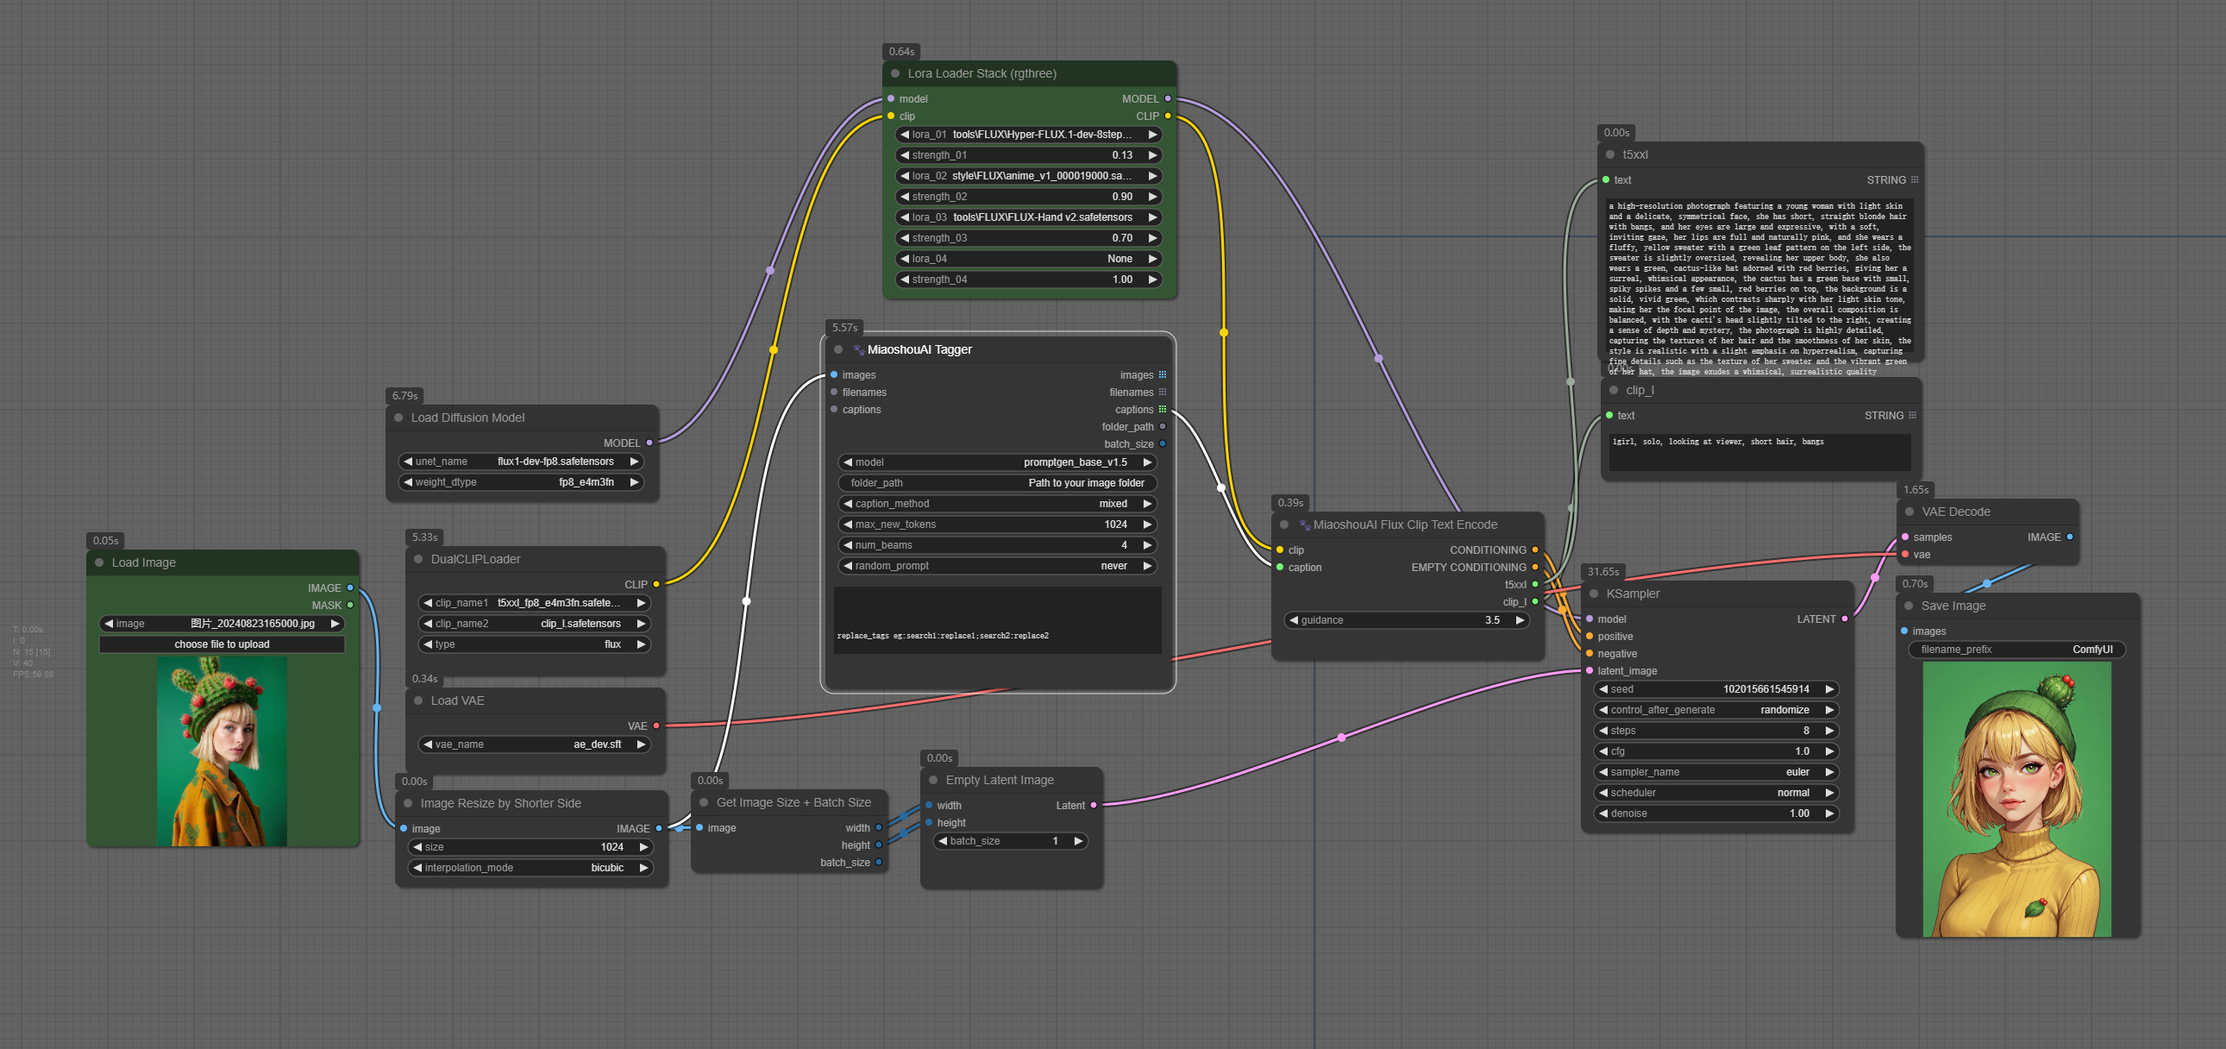
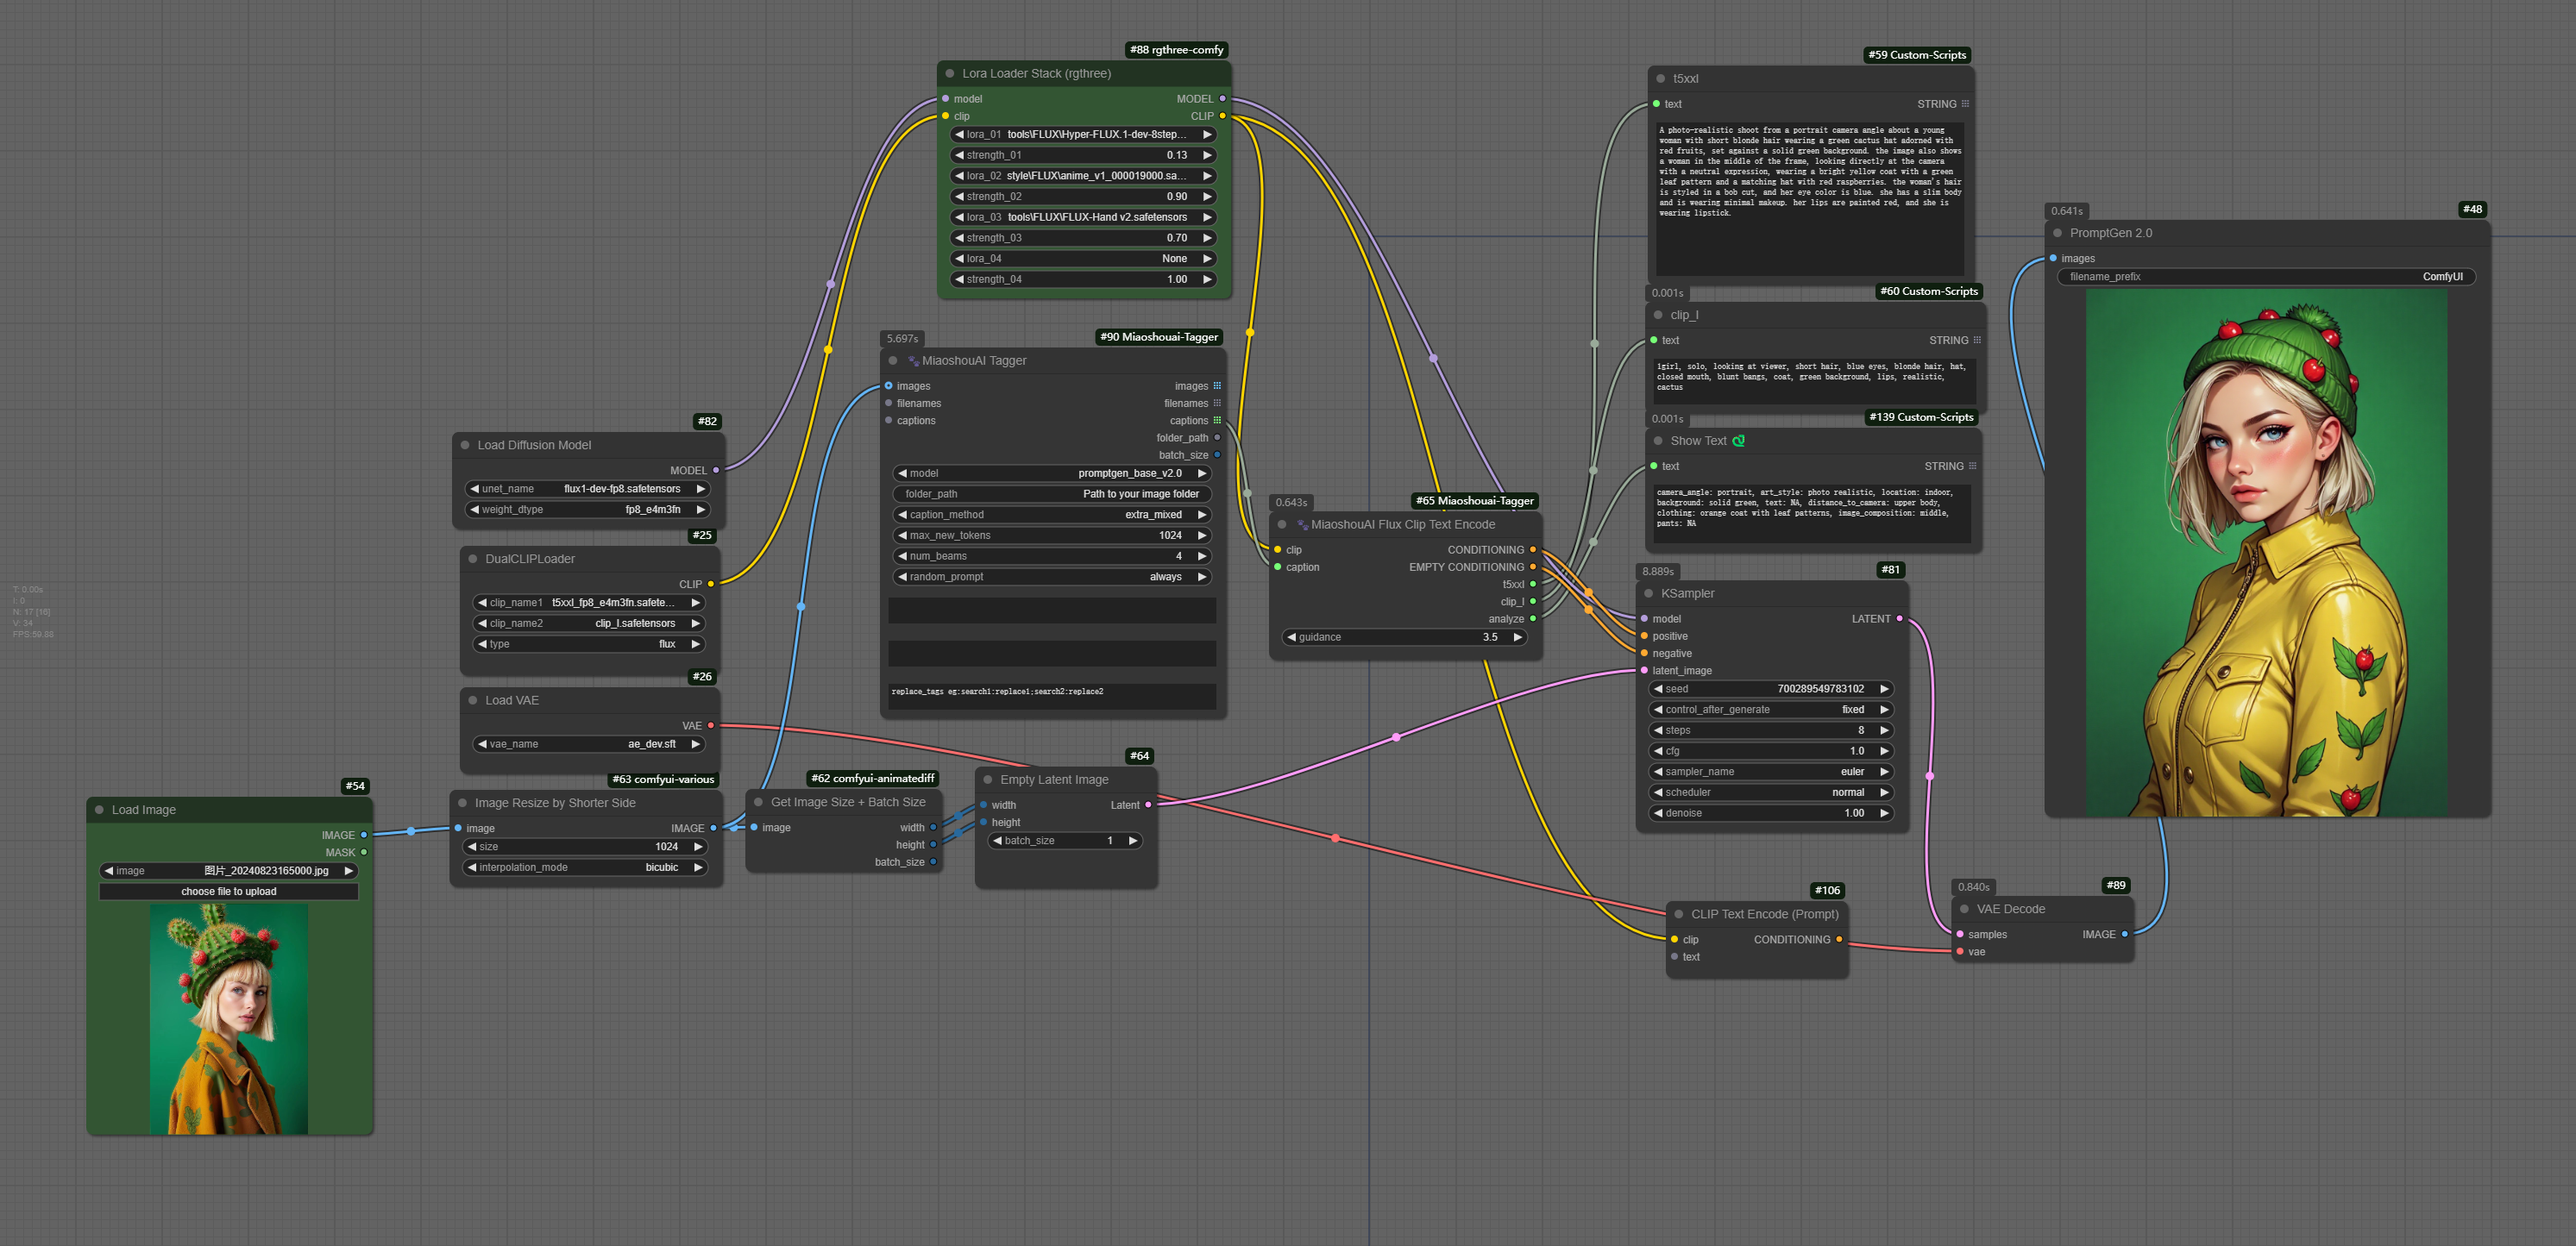
update to v1.4 to support PromptGen v2.0

diff --git a/nodes.py b/nodes.py
@@ -33,15 +33,15 @@ class Tagger:
     def INPUT_TYPES(s):
         return {
             "required": {
-                "model": (['promptgen_base_v1.5', 'promptgen_large_v1.5'], {
-                    "default": "promptgen_base_v1.5"
+                "model": (['promptgen_base_v1.5', 'promptgen_large_v1.5', 'promptgen_base_v2.0', 'promptgen_large_v2.0'], {
+                    "default": "promptgen_base_v2.0"
                 }),
                 "folder_path": ("STRING", {
                     "multiline": False,  # True if you want the field to look like the one on the ClipTextEncode node
                     "default": "Path to your image folder"
                 }),
-                "caption_method": (['tags', 'simple', 'structured', 'detailed', 'mixed'], {
-                    "default": "mixed"
+                "caption_method": (['tags', 'simple', 'detailed', 'extra', 'extra_mixed', 'analyze'], {
+                    "default": "extra_mixed"
                 }),
                 "max_new_tokens": ("INT", {"default": 1024, "min": 1, "max": 4096}),
                 "num_beams": ("INT", {"default": 4, "min": 1, "max": 64}),
@@ -75,18 +75,20 @@ class Tagger:
     #OUTPUT_NODE = True
     CATEGORY = "MiaoshouAI Tagger"
 
-    def tag_image(self, image, caption_method, model, processor, device, dtype, max_new_tokens, num_beams):
+    def tag_image(self, image, caption_method, model, processor, device, dtype, max_new_tokens, do_sample, num_beams):
 
         if caption_method == 'tags':
             prompt = "<GENERATE_TAGS>"
         elif caption_method == 'simple':
             prompt = "<CAPTION>"
-        elif caption_method == 'structured':
-            prompt = "<DETAILED_CAPTION>"
         elif caption_method == 'detailed':
+            prompt = "<DETAILED_CAPTION>"
+        elif caption_method == 'extra':
             prompt = "<MORE_DETAILED_CAPTION>"
+        elif caption_method == 'extra_mixed':
+            prompt = "<MIX_CAPTION_PLUS>"
         else:
-            prompt = "<MIX_CAPTION>"
+            prompt = "<ANALYZE>"
 
         inputs = processor(text=prompt, images=image, return_tensors="pt", do_rescale=False).to(dtype).to(device)
         generated_ids = model.generate(
@@ -94,7 +96,7 @@ class Tagger:
             pixel_values=inputs["pixel_values"],
             max_new_tokens=max_new_tokens,
             early_stopping=False,
-            do_sample=False,
+            do_sample=do_sample,
             num_beams=num_beams,
         )
         generated_text = processor.batch_decode(generated_ids, skip_special_tokens=False)[0]
@@ -119,9 +121,9 @@ class Tagger:
 
         # Download model if it does not exist
 
-        hg_model = 'MiaoshouAI/Florence-2-base-PromptGen-v1.5'
-        if model == 'promptgen_large_v1.5':
-            hg_model = 'MiaoshouAI/Florence-2-large-PromptGen-v1.5'
+        hg_model = 'MiaoshouAI/Florence-2-base-PromptGen-v2.0'
+        if model == 'promptgen_large_v2.0':
+            hg_model = 'MiaoshouAI/Florence-2-large-PromptGen-v2.0'
         model_name = hg_model.rsplit('/', 1)[-1]
         model_path = os.path.join(folder_paths.models_dir, "LLM", model_name)
         if not os.path.exists(model_path):
@@ -181,8 +183,13 @@ class Tagger:
 
         pbar = ProgressBar(len(pil_images))
 
+        if random_prompt == 'always':
+            do_sample = True
+        else:
+            do_sample = False
+
         for i, image in enumerate(pil_images):
-            tags = self.tag_image(image, caption_method, model, processor, device, dtype, max_new_tokens, num_beams)
+            tags = self.tag_image(image, caption_method, model, processor, device, dtype, max_new_tokens, do_sample, num_beams)
             if "eg:" not in replace_tags and ":" in replace_tags:
                 if ";" not in replace_tags:
                     replace_pairs = [replace_tags]
@@ -255,6 +262,9 @@ class SaveTags:
         return (captions,)
 
 class FluxCLIPTextEncode:
+    def __init__(self):
+        pass
+
     @classmethod
     def INPUT_TYPES(s):
         return {"required": {
@@ -263,20 +273,31 @@ class FluxCLIPTextEncode:
             "guidance": ("FLOAT", {"default": 3.5, "min": 0.0, "max": 100.0, "step": 0.1}),
         }}
 
-    RETURN_TYPES = ("CONDITIONING", "CONDITIONING", "STRING", "STRING")
+    RETURN_TYPES = ("CONDITIONING", "CONDITIONING", "STRING", "STRING", "STRING")
     FUNCTION = "encode"
 
     CATEGORY = "MiaoshouAI Tagger"
-    RETURN_NAMES = ("CONDITIONING", "EMPTY CONDITIONING", "t5xxl", "clip_l")
+    RETURN_NAMES = ("CONDITIONING", "EMPTY CONDITIONING", "t5xxl", "clip_l", "analyze")
 
     def encode(self, clip, caption, guidance):
-        t5xxl = caption.split('\n')[0].strip()
-        if len(caption.split('\n')) > 1:
-            clip_l =   caption.split('\n')[-1].replace('\\','').replace('(','').replace(')','').strip()
+        caption_segs = []
+
+        for caption_seg in caption.split('\n'):
+            if len(caption_seg) > 10:
+                caption_segs.append(caption_seg.strip())
+
+        t5xxl = caption_segs[0]
+        if len(caption_segs) > 1:
+            clip_l = caption_segs[1].replace('\\','').replace('(','').replace(')','').strip()
         else:
             clip_l = ""
 
-        tokens = clip.tokenize(clip_l)
+        if len(caption_segs) >= 2:
+            analyze = caption_segs[2].replace('\\','').replace('(','').replace(')','').strip()
+        else:
+            analyze = ""
+
+        tokens = clip.tokenize(f"{clip_l}\n\n{analyze}")
         tokens["t5xxl"] = clip.tokenize(t5xxl)["t5xxl"]
 
         empty_tokens = clip.tokenize("")
@@ -288,10 +309,68 @@ class FluxCLIPTextEncode:
         empty_cond = empty_output.pop("cond")
         output["guidance"] = guidance
 
-        return ([[cond, output]], [[empty_cond, empty_output]], t5xxl, clip_l,)
+        return ([[cond, output]], [[empty_cond, empty_output]], t5xxl, clip_l, analyze,)
 
 
+class CaptionAnalyzer:
+    def __init__(self):
+        pass
 
+    @classmethod
+    def INPUT_TYPES(s):
+        key_list = ["camera_angle", "art_style", "location", "text", "distance_to_camera", "background",
+                    "position_in_image", "gender", "age",
+                    "hair_style", "hair_color", "facial_expression", "eye_direction", "facing_direction", "race", "ear",
+                    "expression", "body", "accessory", "pants", "clothing", "shoes", "action"]
+        selection = {
+                        "analyze": ("STRING", {"forceInput": True, "dynamicPrompts": True}),
+                        "subject_index": ("INT", {"default": 0, "min": 0, "max": 2, "step": 1}),
+                     }
+        for key in key_list:
+            selection[key] = ("BOOLEAN", {"default": False})
+        return {
+            "required": selection
+        }
+
+    RETURN_TYPES = ("STRING", )
+    FUNCTION = "analyze"
+
+    CATEGORY = "MiaoshouAI Tagger"
+    RETURN_NAMES = ("selected analyze", )
+
+    def analyze(self, analyze, subject_index, **kwargs):
+        selected_analyze = []
+        analyze_dict = {}
+        previous_key = analyze.split(",")[0]
+
+        for item in analyze.split(","):
+            try:
+                print(item)
+                if ":" not in item:
+                    analyze_dict[previous_key.strip()] = f'{analyze_dict[previous_key.strip()]}, {item.strip()}'
+                else:
+                    key, value = item.split(":")
+                    analyze_dict[key.strip()] = value.strip()
+                    previous_key = key
+            except Exception as e:
+                print(e)
+                continue
+
+        # Iterate through kwargs and check if the flag is set to True1
+        print(analyze_dict)
+        print(kwargs.items())
+        for key, flag in kwargs.items():
+            if flag and key in analyze_dict:
+                if subject_index == 0 or len(analyze_dict[key].split(";")) < subject_index:
+                    analyze_result  = analyze_dict[key]
+                else:
+                    analyze_result = analyze_dict[key].split(";")[subject_index-1].strip()
+
+                selected_analyze.append(f"{key.replace('_', ' ')} is {analyze_result.replace('NA','unknown')}")
+            elif flag and not key in analyze_dict:
+                selected_analyze.append(f"{key.replace('_', ' ')} is unknown")
+
+        return (','.join(selected_analyze),)
 
 # Set the web directory, any .js file in that directory will be loaded by the frontend as a frontend extension
 # WEB_DIRECTORY = "./somejs"
@@ -301,12 +380,14 @@ class FluxCLIPTextEncode:
 NODE_CLASS_MAPPINGS = {
     "Miaoshouai_Tagger": Tagger,
     "Miaoshouai_SaveTags": SaveTags,
-    "Miaoshouai_Flux_CLIPTextEncode": FluxCLIPTextEncode
+    "Miaoshouai_Flux_CLIPTextEncode": FluxCLIPTextEncode,
+    "Miaoshouai_Caption_Analyzer": CaptionAnalyzer
 }
 
 # A dictionary that contains the friendly/humanly readable titles for the nodes
 NODE_DISPLAY_NAME_MAPPINGS = {
     "Miaoshouai_Tagger": "🐾MiaoshouAI Tagger",
     "Miaoshouai_SaveTags": "🐾MiaoshouAI Save Tags",
-    "Miaoshouai_Flux_CLIPTextEncode": "🐾MiaoshouAI Flux Clip Text Encode"
+    "Miaoshouai_Flux_CLIPTextEncode": "🐾MiaoshouAI Flux Clip Text Encode",
+    "Miaoshouai_Caption_Analyzer": "🐾MiaoshouAI Caption Analyzer (Beta)"
 }

diff --git a/README.md b/README.md
@@ -5,6 +5,7 @@
 MiaoshouAI Tagger for ComfyUI is an advanced image captioning tool based on the Microsoft Florence-2 Model Fine-tuned to perfection. This tool offers highly accurate and contextually relevant image tagging for your projects.
 
 ## Update Note
+2024/11/05 v1.4 A new release to support [Florence-2-base-PromptGen-v2.0](https://huggingface.co/MiaoshouAI/Florence-2-base-PromptGen-v2.0) and [Florence-2-large-PromptGen-v2.0](https://huggingface.co/MiaoshouAI/Florence-2-large-PromptGen-v2.0)</br>
 2024/09/28 v1.31 fix the configuration error rated to [this issue](https://github.com/miaoshouai/ComfyUI-Miaoshouai-Tagger/issues/15), try to delete your existing model from models\LLM folder and run again. It will automatically download the new configurations for you. Or you can download the model from the [baidu drive](https://pan.baidu.com/s/1h8kLNmukfcUitM7mKRE89w?pwd=4xwc) folder.</br>
 2024/09/07 v1.2 updated to support [Florence-2-large-PromptGen-v1.5](https://huggingface.co/MiaoshouAI/Florence-2-large-PromptGen-v1.5), a random prompt widget is added to Tagger node so that if you want to get a different prompt everytime, then just switch it to "always". <br>
 2024/09/05 v1.1 updated to support [Florence-2-base-PromptGen-v1.5](https://huggingface.co/MiaoshouAI/Florence-2-base-PromptGen-v1.5), 2 new prompt mode is added; a new node for flux clip text encoder is added to add easy support for flux model clips.

diff --git a/README_CN.md b/README_CN.md
@@ -5,6 +5,7 @@
 MiaoshouAI Tagger 是一个基于微软 Florence-2 模型的高级图像标注工具，经过精细调优。该工具为您的项目提供高精度和上下文相关的图像标注。
 
 ## 版本更新
+2024/09/28 v1.4 版本更新支持[Florence-2-base-PromptGen-v2.0](https://huggingface.co/MiaoshouAI/Florence-2-base-PromptGen-v2.0) 和 [Florence-2-large-PromptGen-v2.0](https://huggingface.co/MiaoshouAI/Florence-2-large-PromptGen-v2.0)</br>
 2024/09/28 v1.31 修复部分用户碰到的[模型配置文件缺失](https://github.com/miaoshouai/ComfyUI-Miaoshouai-Tagger/issues/15)问题, 更新节点之后，删除models\LLM文件夹下面的模型，重新运行工作流模型会自动下载。或者你也可以手动从 [度盘](https://pan.baidu.com/s/1h8kLNmukfcUitM7mKRE89w?pwd=4xwc) 文件夹下载模型.</br>
 2024/09/07 v1.2 更新支持 [Florence-2-large-PromptGen-v1.5](https://huggingface.co/MiaoshouAI/Florence-2-large-PromptGen-v1.5), 为Tagger节点增加了一个随机widget，如果选择Always，Tagger将在每一次运行生成一套新的提示词。<br>
 2024/09/05 v1.1 更新支持 [Florence-2-base-PromptGen-v1.5](https://huggingface.co/MiaoshouAI/Florence-2-base-PromptGen-v1.5)，新增了两种提示模式；新增了一个用于 flux clip 文本编码器的节点，以便更轻松地支持 flux 模型片段。
